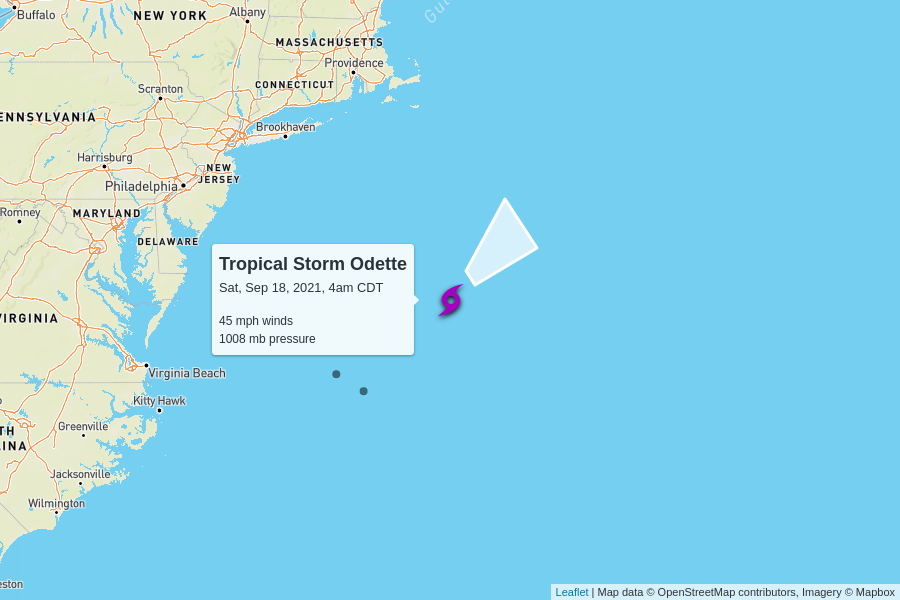
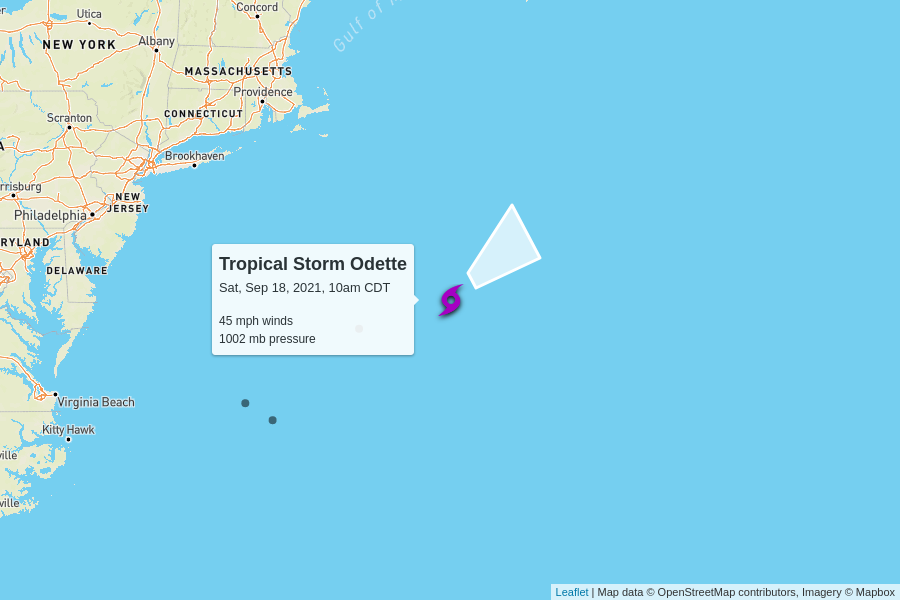
automatic update

diff --git a/docs/index.html b/docs/index.html
@@ -100,7 +100,7 @@
         <td colspan="6" class="storm category-0" >
           <h2>
             Tropical Storm Odette
-            <p class="updated">last updated <span data-time>2021-09-18T09:00:00.000Z</span></p>
+            <p class="updated">last updated <span data-time>2021-09-18T15:00:00.000Z</span></p>
           </h2>
         </td>
       </tr>
@@ -116,11 +116,11 @@
       <tr>
         <td class="spacer"></td>
         <td>45 mph</td>
-        <td>1008 mb</td>
+        <td>1002 mb</td>
         <td>
-          15 mph to the northeast
+          17 mph to the northeast
           <br/>
-          <span style="display: inline-block; font-size: 1.5em; transform: rotate(50deg);">↑</span>
+          <span style="display: inline-block; font-size: 1.5em; transform: rotate(55deg);">↑</span>
         </td>
         <td><a href="https://raw.githubusercontent.com/mgwalker/atlantic-hurricanes/main/data/csv/AL152021.csv">AL152021.csv</a></td>
         <td><a href="https://www.nhc.noaa.gov/archive/2021/ODETTE.shtml?">NHC advisories</a></td>
